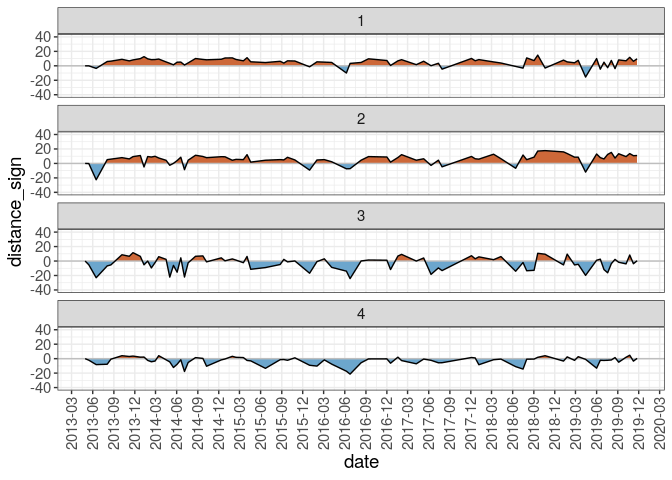
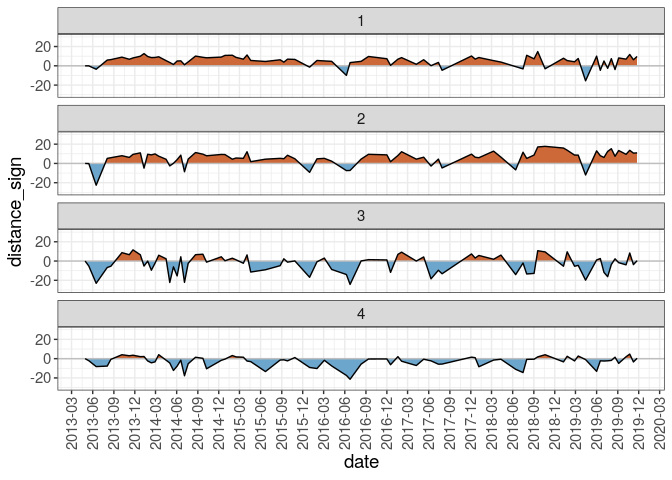
Added fig.height parameter to code chunk of facet wraps

diff --git a/README.md b/README.md
@@ -84,6 +84,8 @@ distl <- pointdist(sh = shl, re = refl, tr = trans, rtr = rawtrans)
 Time-series of shoreline change for each transect
 -------------------------------------------------
 
+> Increase the `fig.height` parameter in the chunk header to make room for facets with more than 5 shoreline change transects. For example, use `fig.height=20` when plotting 10 shoreline change transects.
+
 ``` r
 interdist <- map(distl, interpolate) %>% plyr::ldply()
 distances <- plyr::ldply(distl)
@@ -94,7 +96,7 @@ distances %>%
   geom_hline(yintercept = 0, color = 'grey') +
   geom_line(colour='black', lwd = 0.5) +
   scale_x_date(labels = scales::date_format("%Y-%m"), date_breaks = '3 months') +
-  scale_y_continuous(limits = c(-40, 40)) +
+  scale_y_continuous(limits = c(-30, 30)) +
   theme(axis.text.x = element_text(angle = 90, vjust = 0.5), text = element_text(size = 14)) +
   facet_wrap(~transect, ncol = 1)
 ```
